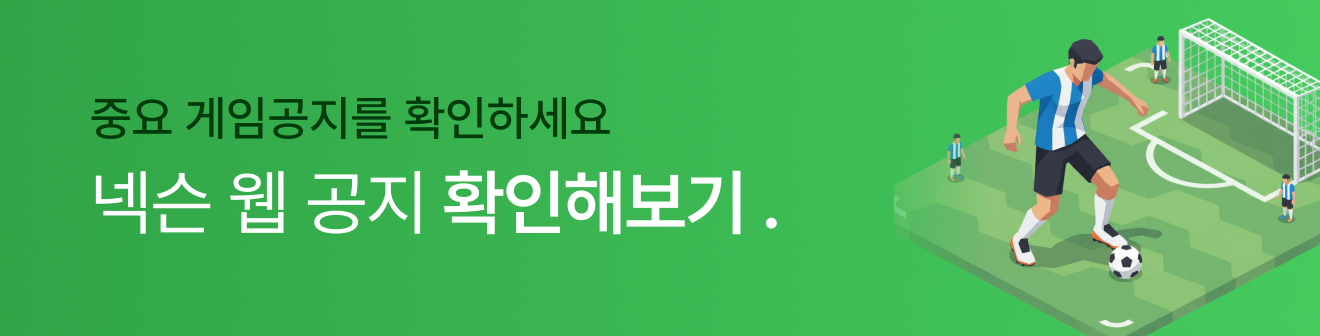
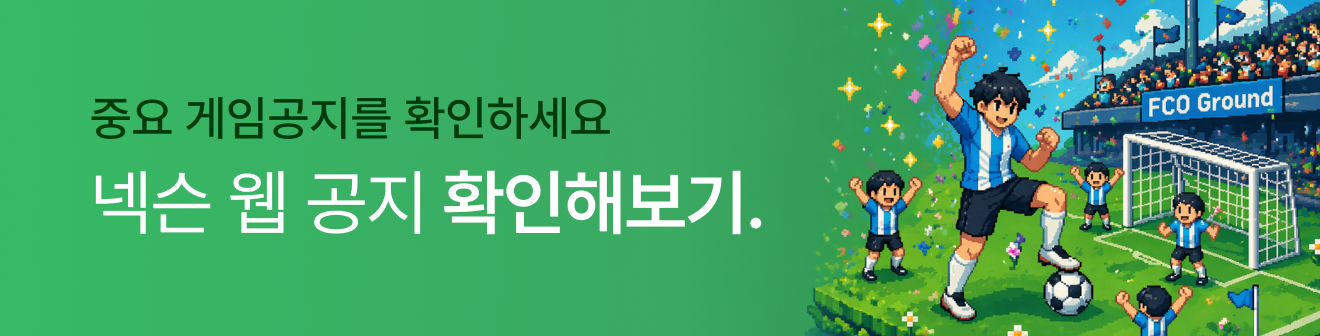
release: 19.9

diff --git a/apps/fconline/src/lib/appVersion.ts b/apps/fconline/src/lib/appVersion.ts
@@ -3,6 +3,9 @@ import pkg from '../../package.json'
 export const APP_VERSION = pkg.version
 
 export const RELEASE_NOTES_BY_VERSION: Record<string, string[]> = {
+  '19.9': [
+    '메인 배너 이미지를 교체했습니다.',
+  ],
   '19.8': [
     '커뮤니티와 선수평가 목록/댓글 조회에서 비로그인 사용자의 불필요한 인증 확인을 줄여 초기 응답 흐름을 가볍게 정리했습니다.',
     '마이페이지 푸터 문구를 정리하고, 설치형 PWA 하단 여백 보정을 공통 기준으로 다시 맞췄습니다.',
